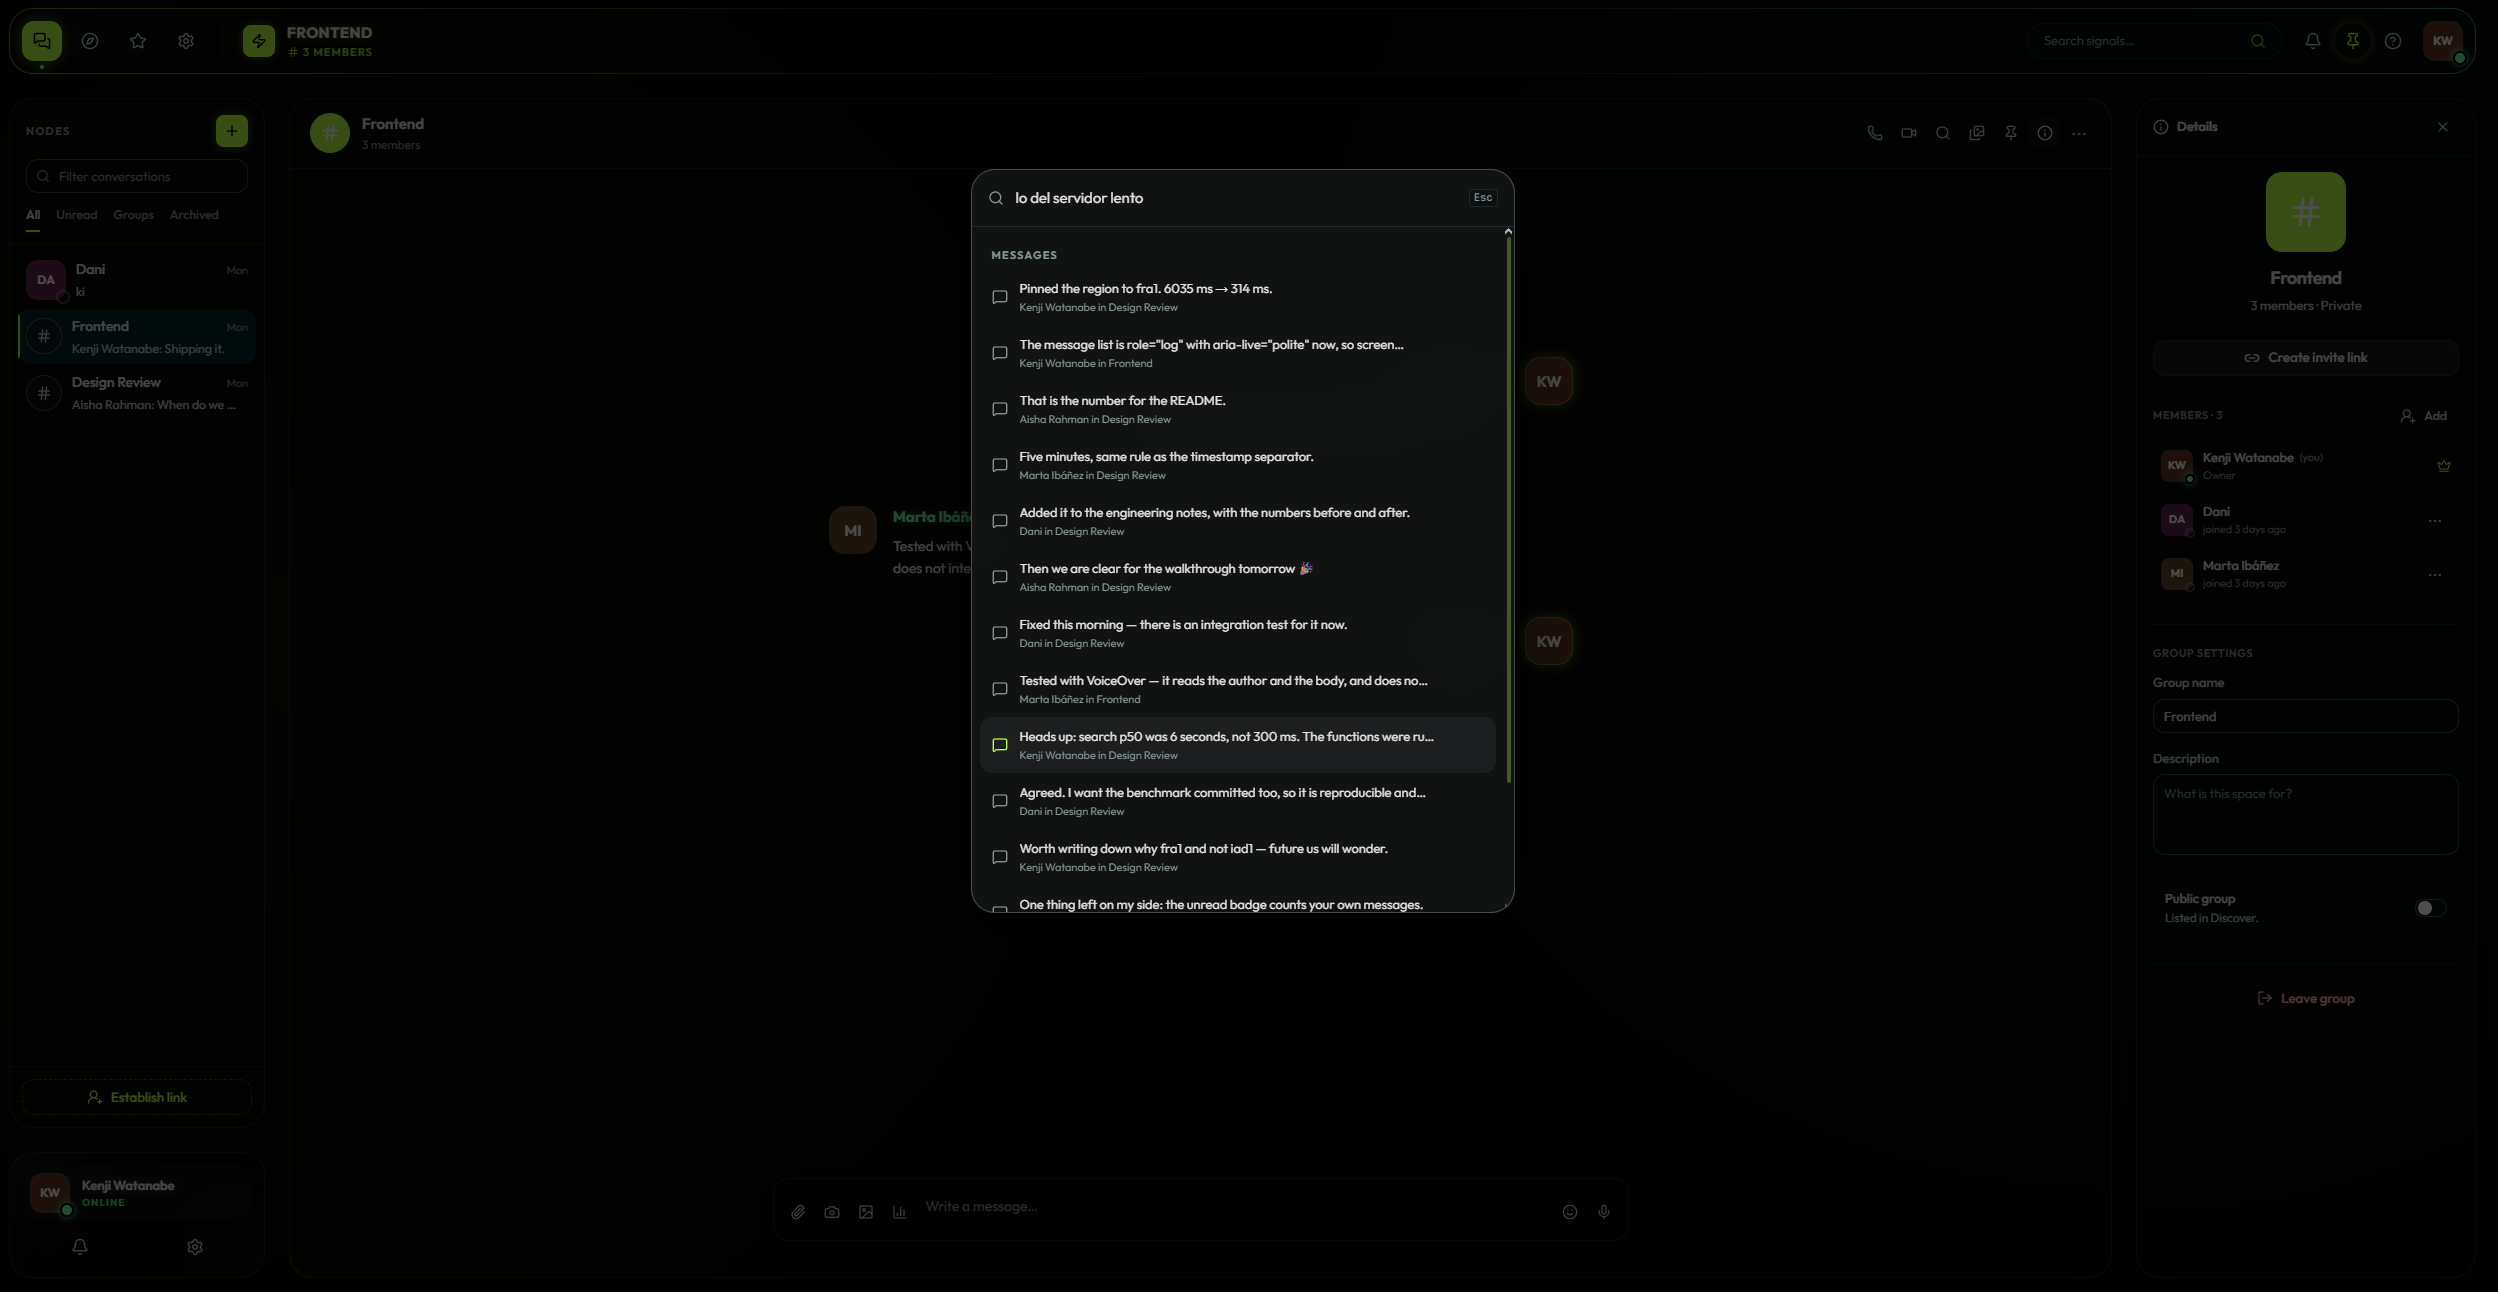
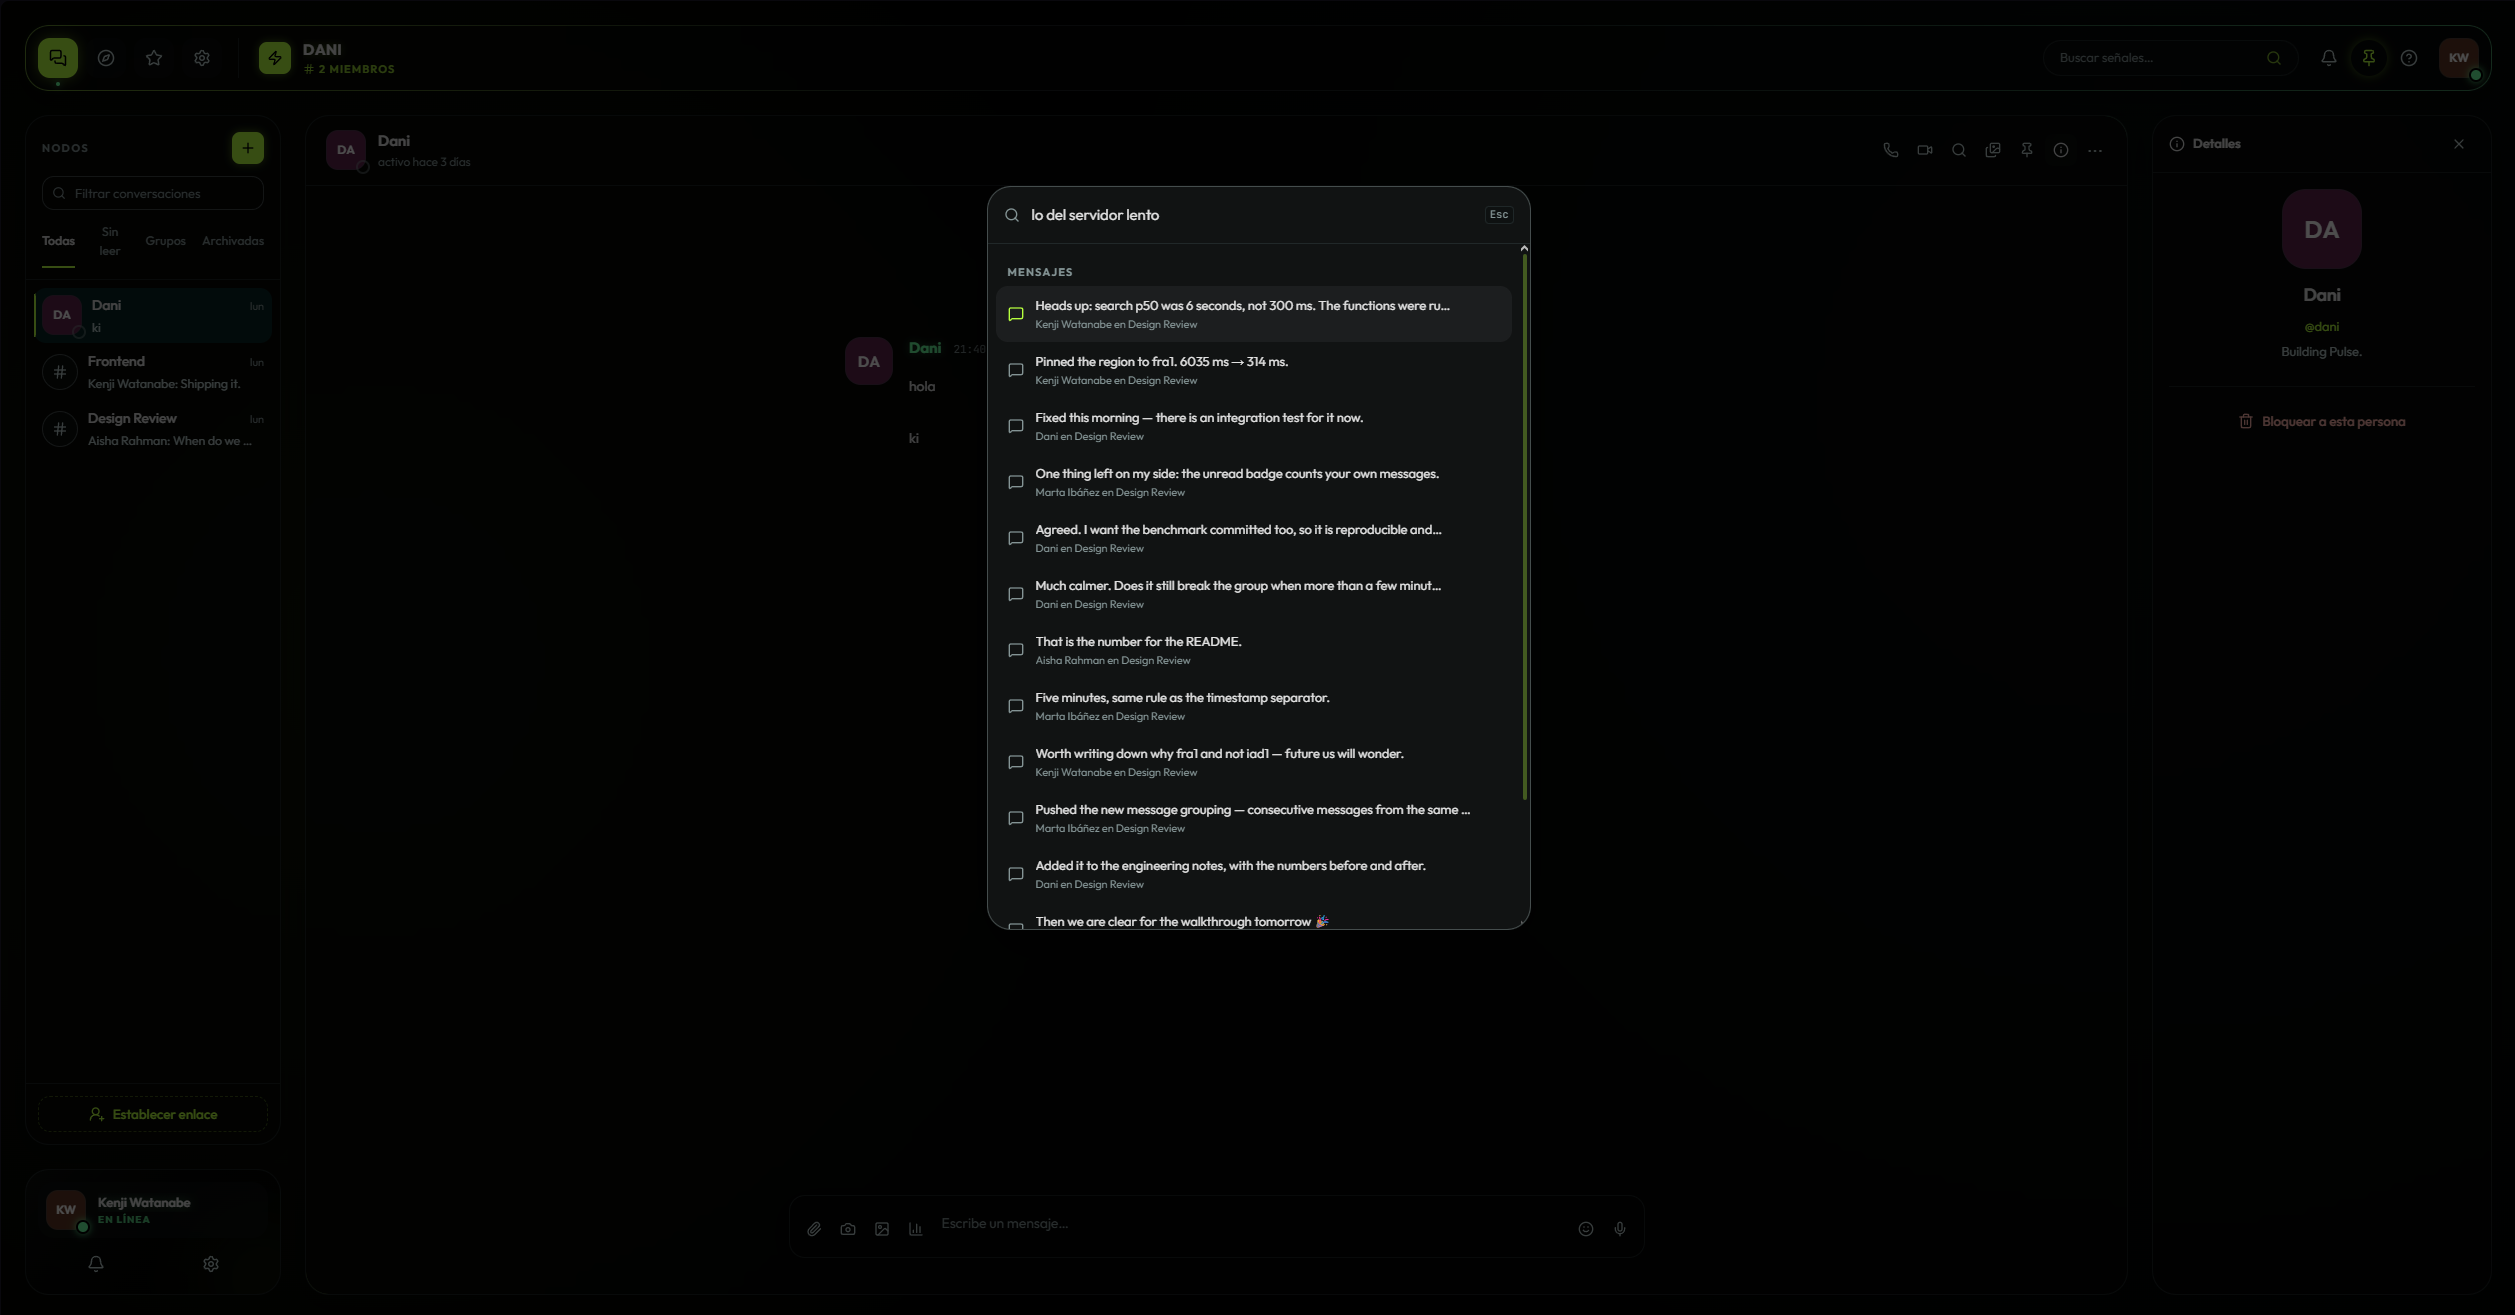
La captura de busqueda, rehecha: el resultado correcto el primero
La anterior era del 21/08 con gte-small y ensenaba el mensaje correcto en la
posicion 9, mientras el pie afirmaba que la consulta lo devolvia. Con bge-m3
sale el primero, asi que la imagen vendia peor de lo que el sistema hace.

Ademas trae algo que el plan daba por perdido: la interfaz sale en espanol, o
sea que el bilinguismo pasa de ser una linea del README a tener prueba visual.
El pie no lo decia; ahora si, junto con el motivo de que el acento sea de otro
color que en la captura de arriba --pertenece a la cuenta, no a la aplicacion.

El pie tambien deja de citar Washington y Frankfurt como si se leyeran en la
imagen: la paleta corta la linea antes. Se dice que el mensaje sigue y nombra
las dos ciudades, que es cierto y se ve entero en chat.png.

diff --git a/README.md b/README.md
@@ -24,9 +24,15 @@ Next.js 15 (App Router), React 19, TypeScript, Prisma, Supabase, Tailwind v4.
 
 ![Pulse: a group conversation with unread counts, reactions, a quoted reply and a live poll](docs/screenshots/chat.png)
 
-![Searching for «lo del servidor lento» — a Spanish query that returns, as its top result, an English message about a p50 of six seconds in Washington and Frankfurt](docs/screenshots/search.png)
+![The command palette in Spanish, searching for «lo del servidor lento» and returning, as its first result, an English message that begins "Heads up: search p50 was 6 seconds, not 300 ms"](docs/screenshots/search.png)
 
-*Asking for «lo del servidor lento» — Spanish for "the thing about the slow server" — puts *"search p50 was 6 seconds… Washington… Frankfurt"* at the **top** of the results. Not one word in common, and not the same language. Lexical search returns nothing at all for that query; the numbers behind it are [here](#the-half-of-search-that-was-missing).*
+*Asking for «lo del servidor lento» — Spanish for "the thing about the slow server" — puts "search p50 was 6 seconds, not 300 ms…" **first**. Not one word in common with the query, and not the same language; the message goes on to name Washington and Frankfurt, which is the whole story of [the region fix](#making-search-nineteen-times-faster). Lexical search returns nothing at all for that query — the numbers behind it are [here](#the-half-of-search-that-was-missing).*
+
+*The interface in that shot is in Spanish, and that is the second thing it
+demonstrates: the language comes from the account, the browser, or a switch in
+settings, and is resolved on the server so the first paint is already right. The
+accent colour differs from the screenshot above it for the same reason — it
+belongs to the account, not to the app.*
 
 ---
 
